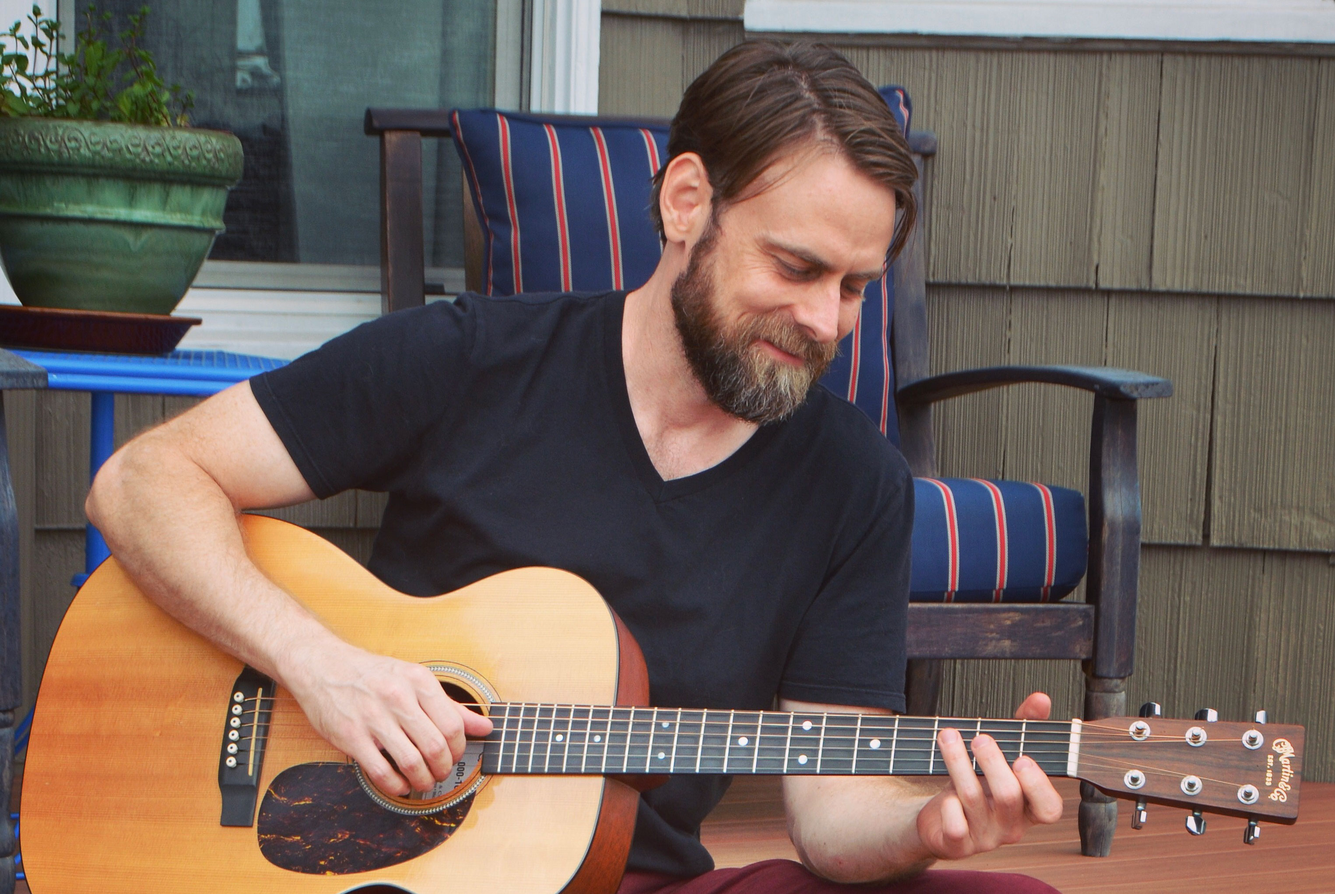
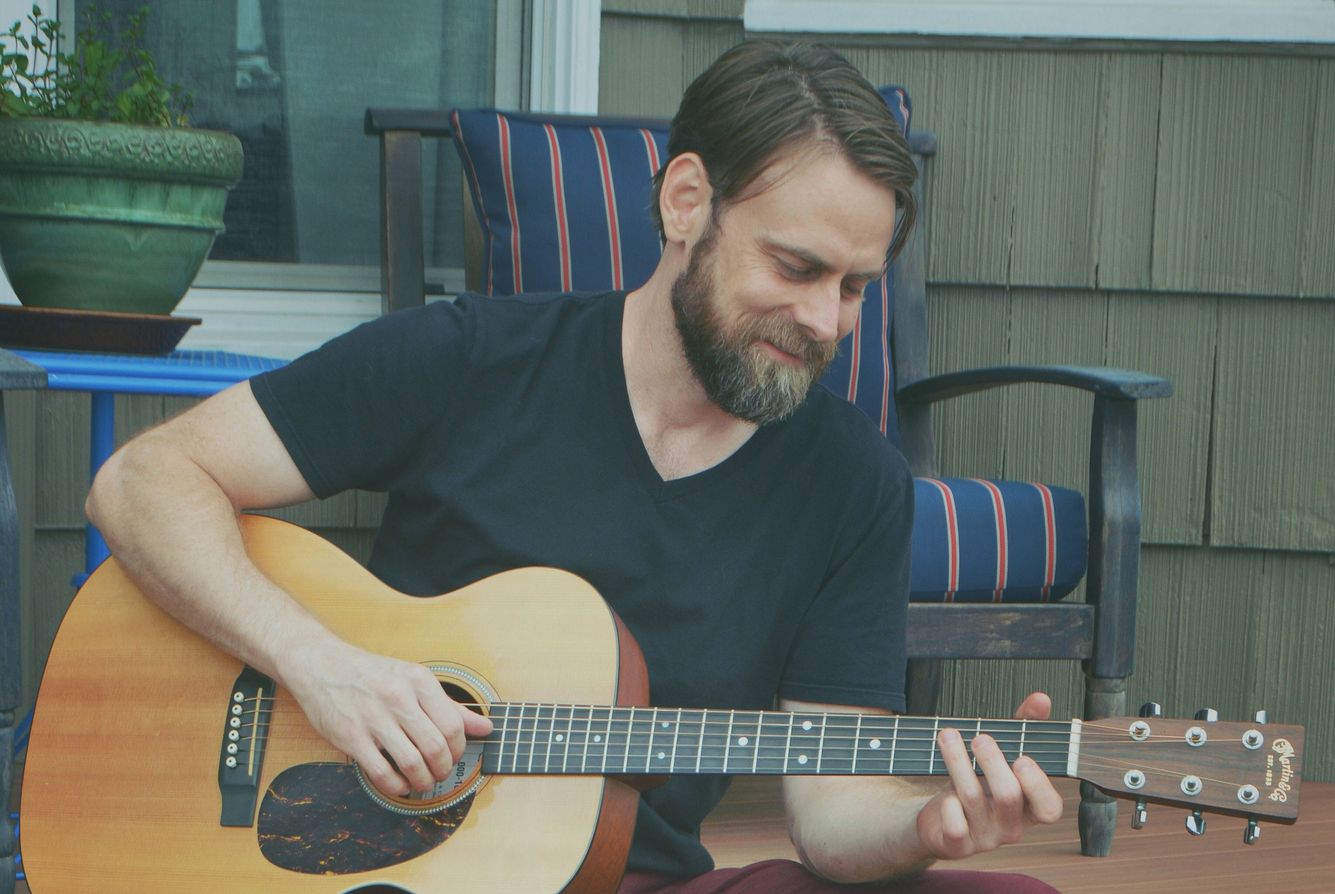
more color stuff

diff --git a/css/grayscale.css b/css/grayscale.css
@@ -7,9 +7,7 @@ body {
     width: 100%;
     height: 100%;
     font-family: Lora,"Helvetica Neue",Helvetica,Arial,sans-serif;
-    color: #5a4848;
     background-color: #000;
-    opacity: .95;
 }
 
 /*body, section, footer, .gallery-bg {
@@ -158,13 +156,7 @@ a:focus {
     padding: 100px 0;
     text-align: center;
     color: #fff;
-	background: 
-	    /* top, transparent, faked with gradient */ 
-	    linear-gradient(rgba(237, 242, 172, 0.25), 
-	    rgba(1, 255, 203, 0.2)),  
-	    /* bottom image bg */
-	    url(/img/bg-desktop-landscape.jpg) no-repeat;
-	    opacity: .8;
+	background: url(/img/bg-desktop-landscape.jpg) no-repeat;
 	height: 100vh;
 	background-position: top right;
     -webkit-background-size: cover;
@@ -174,11 +166,8 @@ a:focus {
 }
 
 
-
-
-
-
-
+/*  linear-gradient(rgba(237, 242, 172, 0.25), 
+	    rgba(1, 255, 203, 0.2)) */
 
 .intro .intro-body {
     display: table-cell;
@@ -283,7 +272,6 @@ a:focus {
 /* ====== About ====== */
 .about-section {
     width: 100%;
-    border-bottom: 1px solid rgba(204, 204, 204, .5);
 }
 
 #contact.content-section {
@@ -300,8 +288,9 @@ a:focus {
     padding: 50px 0;
     border-top: 1px solid rgba(204, 204, 204, 1);
     border-bottom: 1px solid rgba(204, 204, 204, 1);
-    background: url(/img/bk-best-lessons.jpg) no-repeat center center scroll;
+    background: url(/img/press-bg.jpg) no-repeat center center scroll;
     background-color: #000;
+    opacity: .9;
     -webkit-background-size: cover;
     -moz-background-size: cover;
     background-size: cover;
@@ -313,22 +302,42 @@ a:focus {
     padding-right: 0;
 }
 
-.press h2 {
-    text-transform: none;
-    color: #000;
-}
-
 .press h3 {
-	color: #000;
+	text-align: right;
+	color: #fff;
 }
 
-.press h5, .press a {
+.press h2 {
+	color: #fff;
+    padding-bottom: 30px;
+
+}
+
+.press a {
 	color: #ccc;
+	text-shadow: 1px 1px 10px rgba(0,0,0,.5);
+}
+
+.press h5 {
+	text-align: right;
+	color: #ccc;
+	text-shadow: 1px 1px 10px rgba(0,0,0,1);
+}
+
+.press h5:hover {
+	opacity: .6;
+}
+
+.press h3 span {
+	font-style: italic;
+	text-transform: none;
 }
 
 .press p {
     text-transform: uppercase;
     font-size: 1.2em;
+   	text-align: right;
+	color: #fff;
 }
 
 .yelp {
@@ -378,6 +387,10 @@ ul.banner-social-buttons a:hover {
 
 
 /* ====== GALLERY ====== */
+#gallery {
+	padding-bottom: 80px;
+}
+
 .gallery-bg {
 	padding-top: 0;
 	text-align: center;
@@ -387,11 +400,18 @@ ul.banner-social-buttons a:hover {
 	text-align: center;
 }
 
+.gallery-bg img {
+	margin-bottom: 3px;
+}
 
 
 
 
 /* ====== CONTACT ====== */
+#contact {
+    border-top: 1px solid rgba(204, 204, 204, .5);
+}
+
 .logo-box {
 	padding: 20px 0;
 }
@@ -484,11 +504,7 @@ body {
         display: none;
     }
     .mobile-background {
-	    background: 
-	        /* top, transparent, faked with gradient */ 
-		    linear-gradient(rgba(237, 242, 172, 0.25), 
-		    rgba(1, 255, 203, 0.2)), 
-		    /* bottom image bg */ url(/img/bg-mobile-portrait.jpg) no-repeat;
+	    background: url(/img/bg-mobile-portrait.jpg) no-repeat;
 	    height: 100vh;
 	    background-position: center center;
 	    -webkit-background-size: cover;
@@ -534,7 +550,7 @@ body {
     }
 
     .press-section {
-        padding: 100px 0;
+        padding: 60px 0;
     }
 
     #map {

diff --git a/index.html b/index.html
@@ -150,6 +150,22 @@
 		    </div>
 		</div>
 
+        <section id="press" class="content-section text-center col-lg-12">
+            <div class="press-section">
+                <div class="container">
+                    <div class="col-lg-12 press">
+                        <h2>PRESS</h2>
+                        <h3><span>"Brooklyn's Best Guitar Lessons"</span></h3>
+                        <a href="http://brooklynstreetbeat.com/brooklyns-best-lessons-learn-something-new/" target="_blank"><h5>- Brooklyn Daily Eagle, July 2014</h5></a>
+                    </div>
+        
+                    <div class="col-lg-12 press yelp">
+                        <h3>What <a href="http://www.yelp.com/biz/walker-guitar-lessons-brooklyn" target="_blank">other people</a> say.</h3>
+                    </div>
+                </div>
+            </div>
+        </section>
+
 		<section id="gallery" class=" content-section col-lg-12">
 			<div class="gallery-bg">
 				<h2>Gallery</h2>
@@ -190,32 +206,15 @@
 		</section>
 		<!-- END GALLERY -->
 
-        <!-- Download Section -->
-        <section id="press" class="content-section text-center col-lg-12">
-            <div class="press-section">
-                <div class="container">
-                    <div class="col-lg-12 press">
-                        <h2>PRESS</h2>
-                        <h2>"Brooklyn's Best Guitar Lessons"</h2>
-                        <a href="http://brooklynstreetbeat.com/brooklyns-best-lessons-learn-something-new/" target="_blank"><h5>- Brooklyn Daily Eagle, July 2014</h5></a>
-                    </div>
-        
-                    <div class="col-lg-12 press yelp">
-                        <h3>What <a href="http://www.yelp.com/biz/walker-guitar-lessons-brooklyn" target="_blank">other people</a> say.</h3>
-                    </div>
-                </div>
-            </div>
-        </section>
-
         <!-- Contact Section -->
         <section id="contact" class="container content-section text-center col-lg-12">
             <div class="row">
                 <div class="col-lg-8 col-lg-offset-2">
-                    <h2>SAY HELLO!</h2>
+                    <h2>Contact</h2>
 <!--                     <div class="logo-box">
                 		<img class="logo" src="img/logo.jpg">
                 	</div> -->
-                    <p>Really, please do! I'd love to hear a bit about you, what your musical goals are, and how you think I can help you get where you want to be.</p>
+                    <p>Please say hello! I'd love to hear a bit about you, what your musical goals are.</p>
                   
                     <p><a href="mailto:coire@walkerguitar.com?Subject=Guitar%20Lessons!" target="_top">coire@walkerguitar.com</a>
                     </p>
